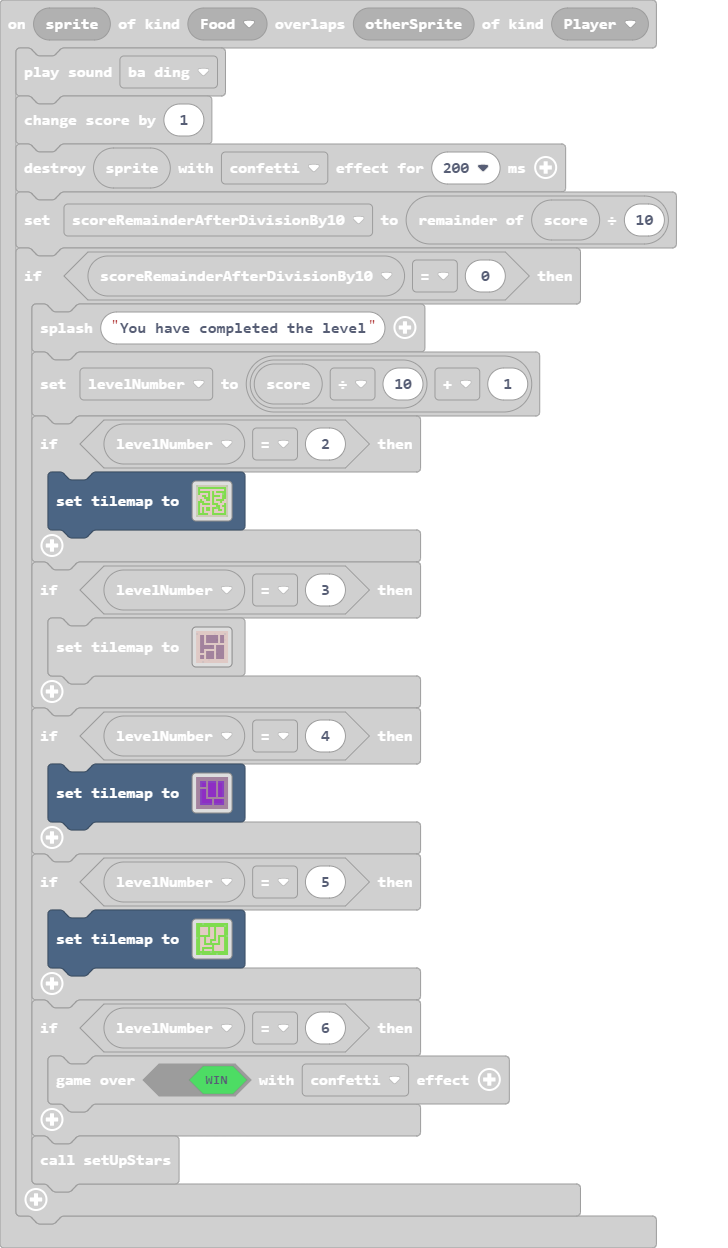
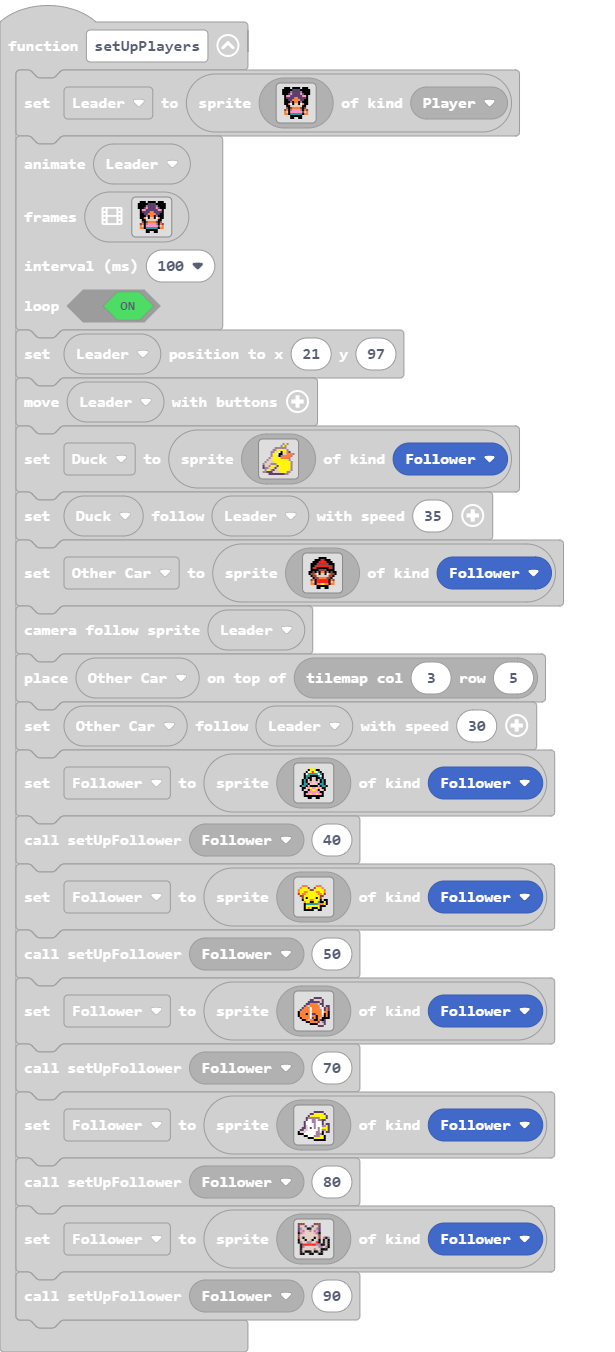
I have added levels with different maps. :)

diff --git a/tilemap.g.ts b/tilemap.g.ts
@@ -501,63 +501,6 @@ namespace myTiles {
 . . . . . . . . . . . . . . . . 
 . . . . . . . . . . . . . . . . 
 `, [myTiles.transparency16,sprites.builtin.brick,sprites.castle.tileDarkGrass3,sprites.castle.tileDarkGrass1,sprites.builtin.forestTiles16], TileScale.Sixteen);
-            case "level16":
-            case "level16":return tiles.createTilemap(hex`1000100001010101010101010101010101010101050101010101010101020101010105010101040401040404040404010404010101010404010404040404040104040101010104040104040404040301040402010101040401040404040404010404010101010404010101010101010101010101010104040404040304010404040401010101040404040404040104040404010101010404010101010101040404040101010104040104040404010404040401010101010101040404040103040404010101010404010404040401040404040101010104040104040404010404040401010101010101010201010101010101010101010105010101010101010101010101`, img`
-. . . . . . . . . . . . . . . . 
-. . . . . . . . . . . . . . . . 
-. . 2 2 . 2 2 2 2 2 2 . 2 2 . . 
-. . 2 2 . 2 2 2 2 2 2 . 2 2 . . 
-. . 2 2 . 2 2 2 2 2 2 . 2 2 . . 
-. . 2 2 . 2 2 2 2 2 2 . 2 2 . . 
-. . 2 2 . . . . . . . . . . . . 
-. . 2 2 2 2 2 2 2 . 2 2 2 2 . . 
-. . 2 2 2 2 2 2 2 . 2 2 2 2 . . 
-. . 2 2 . . . . . . 2 2 2 2 . . 
-. . 2 2 . 2 2 2 2 . 2 2 2 2 . . 
-. . . . . 2 2 2 2 . 2 2 2 2 . . 
-. . 2 2 . 2 2 2 2 . 2 2 2 2 . . 
-. . 2 2 . 2 2 2 2 . 2 2 2 2 . . 
-. . . . . . . . . . . . . . . . 
-. . . . . . . . . . . . . . . . 
-`, [myTiles.transparency16,sprites.dungeon.floorLight2,sprites.dungeon.floorLight5,sprites.dungeon.floorDark5,sprites.dungeon.floorDark2,sprites.dungeon.floorLightMoss], TileScale.Sixteen);
-            case "level23":
-            case "level23":return tiles.createTilemap(hex`1000100003030303030303030303030303030303030303030303030303030303030303030303020202030202020203020202030303030201010301010101030101020303030302010103010101010301010203030303030303030101010103010102030303030201010301010101030101020303030302010103010101010301010203030303020101030101010103010102030303030201010301010101030101020303030302010103030303030303030303030303020101010101030101010102030303030201010101010301010101020303030302020202020203020202020203030303030303030303030303030303030303030303030303030303030303030303`, img`
-. . . . . . . . . . . . . . . . 
-. . . . . . . . . . . . . . . . 
-. . 2 2 2 . 2 2 2 2 . 2 2 2 . . 
-. . 2 2 2 . 2 2 2 2 . 2 2 2 . . 
-. . 2 2 2 . 2 2 2 2 . 2 2 2 . . 
-. . . . . . 2 2 2 2 . 2 2 2 . . 
-. . 2 2 2 . 2 2 2 2 . 2 2 2 . . 
-. . 2 2 2 . 2 2 2 2 . 2 2 2 . . 
-. . 2 2 2 . 2 2 2 2 . 2 2 2 . . 
-. . 2 2 2 . 2 2 2 2 . 2 2 2 . . 
-. . 2 2 2 . . . . . . . . . . . 
-. . 2 2 2 2 2 2 . 2 2 2 2 2 . . 
-. . 2 2 2 2 2 2 . 2 2 2 2 2 . . 
-. . 2 2 2 2 2 2 . 2 2 2 2 2 . . 
-. . . . . . . . . . . . . . . . 
-. . . . . . . . . . . . . . . . 
-`, [myTiles.transparency16,sprites.swamp.swampTile9,sprites.swamp.swampTile13,sprites.swamp.swampTile16], TileScale.Sixteen);
-            case "level24":
-            case "level24":return tiles.createTilemap(hex`1000100001010103010101010101010101010101010101010101010101010101010103010101020202020102020102020202010101010202020201020201020202020101010102020202010202010202020201010101020202020102020102020202010101010101010101020201020101010103030102020102020202010201020201010101020201020201010102010202010101010202010202010202020102020101010102020101010101010101020201010101020202020202010202020202010101010201010101010102020202020101010102010202020201020202020201010101010101010103010101010101010101010301010101010101030101010101`, img`
-. . . . . . . . . . . . . . . . 
-. . . . . . . . . . . . . . . . 
-. . 2 2 2 2 . 2 2 . 2 2 2 2 . . 
-. . 2 2 2 2 . 2 2 . 2 2 2 2 . . 
-. . 2 2 2 2 . 2 2 . 2 2 2 2 . . 
-. . 2 2 2 2 . 2 2 . 2 2 2 2 . . 
-. . . . . . . 2 2 . 2 . . . . . 
-. . 2 2 . 2 2 2 2 . 2 . 2 2 . . 
-. . 2 2 . 2 2 . . . 2 . 2 2 . . 
-. . 2 2 . 2 2 . 2 2 2 . 2 2 . . 
-. . 2 2 . . . . . . . . 2 2 . . 
-. . 2 2 2 2 2 2 . 2 2 2 2 2 . . 
-. . 2 . . . . . . 2 2 2 2 2 . . 
-. . 2 . 2 2 2 2 . 2 2 2 2 2 . . 
-. . . . . . . . . . . . . . . . 
-. . . . . . . . . . . . . . . . 
-`, [myTiles.transparency16,sprites.castle.tileGrass1,sprites.castle.tilePath5,sprites.castle.tileGrass2], TileScale.Sixteen);
             case "level8":
[1 lines of base64/hex data omitted]
 . . . . . . . . . . . . . . . . 
@@ -577,6 +520,63 @@ namespace myTiles {
 . 2 2 2 2 2 . . 2 2 2 2 2 2 2 . 
 . . . . . . . . . . . . . . . . 
 `, [myTiles.transparency16,sprites.castle.tilePath1,sprites.castle.tilePath3,sprites.castle.tilePath7,sprites.castle.tilePath5,sprites.castle.tilePath9,sprites.castle.tilePath4,sprites.castle.tilePath2,sprites.castle.tilePath6,sprites.castle.tilePath8,sprites.castle.tileGrass2,sprites.castle.tileGrass3,sprites.castle.tileGrass1], TileScale.Sixteen);
+            case "level16":
[1 lines of base64/hex data omitted]
+. . . . . . . . . . . . . . . . 
+. 2 . . 2 2 2 2 2 2 2 2 2 2 2 . 
+. 2 . . . . . . . . . . . . 2 . 
+. 2 2 2 2 2 2 2 2 2 2 2 2 . 2 . 
+. 2 . . . . . . . . . . . . 2 . 
+. 2 . 2 2 2 2 2 2 2 2 2 2 2 2 . 
+. 2 . . . . . . . . . . . . 2 . 
+. 2 2 . 2 2 . 2 2 . 2 2 2 2 2 . 
+. 2 2 . 2 2 . 2 2 . . . . . 2 . 
+. 2 2 . . . . 2 2 2 . 2 2 . 2 . 
+. 2 2 2 2 2 . 2 . . . 2 2 . 2 . 
+. 2 . . . 2 . 2 . 2 2 2 2 . 2 . 
+. 2 . 2 2 2 . 2 . 2 2 . . . 2 . 
+. 2 . . . . . 2 . . . . 2 2 2 . 
+. 2 2 2 2 2 2 2 2 2 2 . 2 2 2 . 
+. . . . . . . . . . . . . . . . 
+`, [myTiles.transparency16,sprites.castle.tilePath1,sprites.castle.tilePath3,sprites.castle.tilePath9,sprites.castle.tilePath7,sprites.castle.tilePath4,sprites.castle.tilePath8,sprites.castle.tilePath6,sprites.castle.tilePath2,sprites.castle.tilePath5,sprites.castle.tileGrass1], TileScale.Sixteen);
+            case "level23":
[1 lines of base64/hex data omitted]
+. . . . . . . . . . . . . . . . 
+. 2 . 2 2 2 2 2 2 2 . 2 2 2 2 . 
+. 2 . . . . 2 2 . . . . 2 2 2 . 
+. 2 2 2 2 . 2 2 . 2 2 . . . 2 . 
+. 2 2 . . . . . . 2 . . 2 . 2 . 
+. 2 2 . 2 2 2 2 . 2 . . 2 . 2 . 
+. 2 2 . . . . . . 2 . 2 2 . 2 . 
+. 2 2 2 2 2 2 . 2 2 . 2 2 . 2 . 
+. . . . 2 2 2 . 2 2 . . . . 2 . 
+. 2 2 . 2 2 . . . 2 2 2 . 2 2 . 
+. 2 2 . . . . 2 2 2 2 2 . 2 2 . 
+. 2 2 2 . 2 . 2 2 2 2 2 . . . . 
+. 2 . . . 2 . . . . . . . 2 2 . 
+. 2 . . 2 2 2 2 . 2 2 . 2 2 2 . 
+. 2 . 2 2 2 2 2 . 2 2 . 2 2 2 . 
+. . . . . . . . . . . . . . . . 
+`, [myTiles.transparency16,sprites.castle.tilePath1,sprites.castle.tilePath3,sprites.castle.tilePath7,sprites.castle.tilePath9,sprites.castle.tilePath6,sprites.castle.tilePath4,sprites.castle.tilePath2,sprites.castle.tilePath8,sprites.castle.tilePath5,sprites.castle.tileGrass1], TileScale.Sixteen);
+            case "level24":
+            case "level24":return tiles.createTilemap(hex`1000100002020202020202020202020202020202020202020202020202020202020202020202010101010201010201010101020202020101010102010102010101010202020201010101020101020101010102020202010101010201010201010101020202020202020202010102010202020202020201010201010101020102010102020202010102010102020201020101020202020101020101020101010201010202020201010202020202020202010102020202010101010101020101010101020202020102020202020201010101010202020201020101010102010101010102020202020202020202020202020202020202020202020202020202020202020202`, img`
+. . . . . . . . . . . . . . . . 
+. . . . . . . . . . . . . . . . 
+. . 2 2 2 2 . 2 2 . 2 2 2 2 . . 
+. . 2 2 2 2 . 2 2 . 2 2 2 2 . . 
+. . 2 2 2 2 . 2 2 . 2 2 2 2 . . 
+. . 2 2 2 2 . 2 2 . 2 2 2 2 . . 
+. . . . . . . 2 2 . 2 . . . . . 
+. . 2 2 . 2 2 2 2 . 2 . 2 2 . . 
+. . 2 2 . 2 2 . . . 2 . 2 2 . . 
+. . 2 2 . 2 2 . 2 2 2 . 2 2 . . 
+. . 2 2 . . . . . . . . 2 2 . . 
+. . 2 2 2 2 2 2 . 2 2 2 2 2 . . 
+. . 2 . . . . . . 2 2 2 2 2 . . 
+. . 2 . 2 2 2 2 . 2 2 2 2 2 . . 
+. . . . . . . . . . . . . . . . 
+. . . . . . . . . . . . . . . . 
+`, [myTiles.transparency16,sprites.castle.tileGrass1,sprites.castle.tilePath5], TileScale.Sixteen);
         }
         return null;
     })

diff --git a/main.ts b/main.ts
@@ -1,3 +1,6 @@
+namespace SpriteKind {
+    export const Follower = SpriteKind.create()
+}
 function setUpStars () {
     for (let index = 0; index < 10; index++) {
         star = sprites.create(img`
@@ -220,7 +223,7 @@ function setUpPlayers () {
         . b 5 5 b c d d 5 5 5 5 5 d b . 
         b b c c c d d d d 5 5 5 b b . . 
         . . . c c c c c c c c b b . . . 
-        `, SpriteKind.Player)
+        `, SpriteKind.Follower)
     Duck.follow(Leader, 35)
     Other_Car = sprites.create(img`
         . . . . . . f f f f . . . . . . 
@@ -239,7 +242,7 @@ function setUpPlayers () {
         . . 4 4 f 4 4 5 5 4 4 f 4 4 . . 
         . . . . . f f f f f f . . . . . 
         . . . . . f f . . f f . . . . . 
-        `, SpriteKind.Player)
+        `, SpriteKind.Follower)
     scene.cameraFollowSprite(Leader)
     tiles.placeOnTile(Other_Car, tiles.getTileLocation(3, 5))
     Other_Car.follow(Leader, 30)
@@ -260,7 +263,7 @@ function setUpPlayers () {
         . . . f 3 3 5 3 3 5 3 3 f . . . 
         . . . f f f f f f f f f f . . . 
         . . . . . f f . . f f . . . . . 
-        `, SpriteKind.Player)
+        `, SpriteKind.Follower)
     setUpFollower(Follower, 40)
     Follower = sprites.create(img`
         . . . . . . . . . . . . . . . . 
@@ -277,7 +280,7 @@ function setUpPlayers () {
         . . . f 5 5 5 5 5 5 5 f f f . . 
         . . . f 5 4 5 f f f 5 f . . . . 
         . . . f f f f f . . f f . . . . 
-        `, SpriteKind.Player)
+        `, SpriteKind.Follower)
     setUpFollower(Follower, 50)
     Follower = sprites.create(img`
         . . . . . . . . . . . . . . . . 
@@ -296,7 +299,7 @@ function setUpPlayers () {
         . . . . f f 4 4 4 4 c d b c . . 
         . . . . . . f f f f d d d c . . 
         . . . . . . . . . . c c c . . . 
-        `, SpriteKind.Player)
+        `, SpriteKind.Follower)
     setUpFollower(Follower, 70)
     Follower = sprites.create(img`
         . . . . . . . . . . . . . . . . 
@@ -315,7 +318,7 @@ function setUpPlayers () {
         . . . f f 1 1 1 b b b 5 5 f . . 
         . . . . . f f f 5 5 5 5 5 f . . 
         . . . . . . . . f f f f f f . . 
-        `, SpriteKind.Player)
+        `, SpriteKind.Follower)
     setUpFollower(Follower, 80)
     Follower = sprites.create(img`
         e e e . . . . e e e . . . . 
@@ -332,7 +335,7 @@ function setUpPlayers () {
         . f d d d d d b d d f f f . 
         . f d f f f d f f d f . . . 
         . f f . . f f . . f f . . . 
-        `, SpriteKind.Player)
+        `, SpriteKind.Follower)
     setUpFollower(Follower, 90)
 }
 function setUpShark () {
